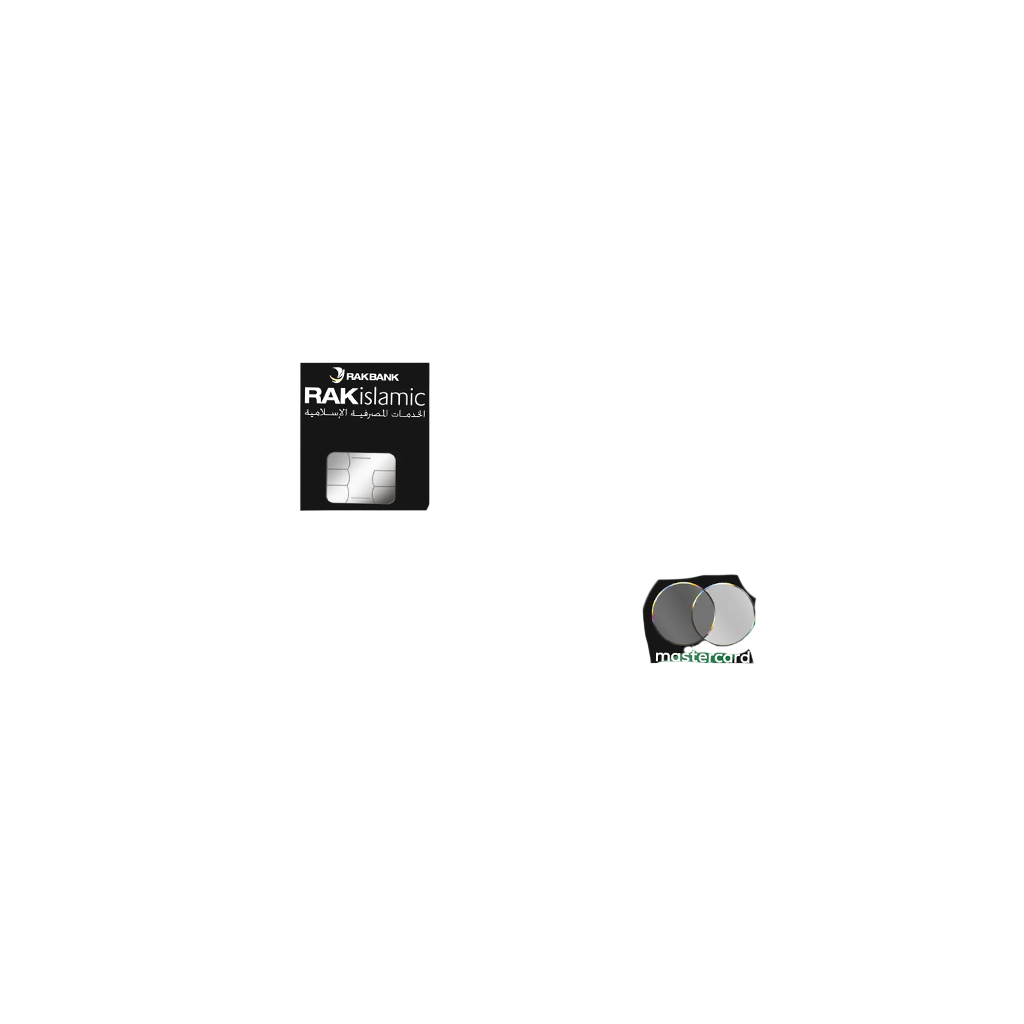
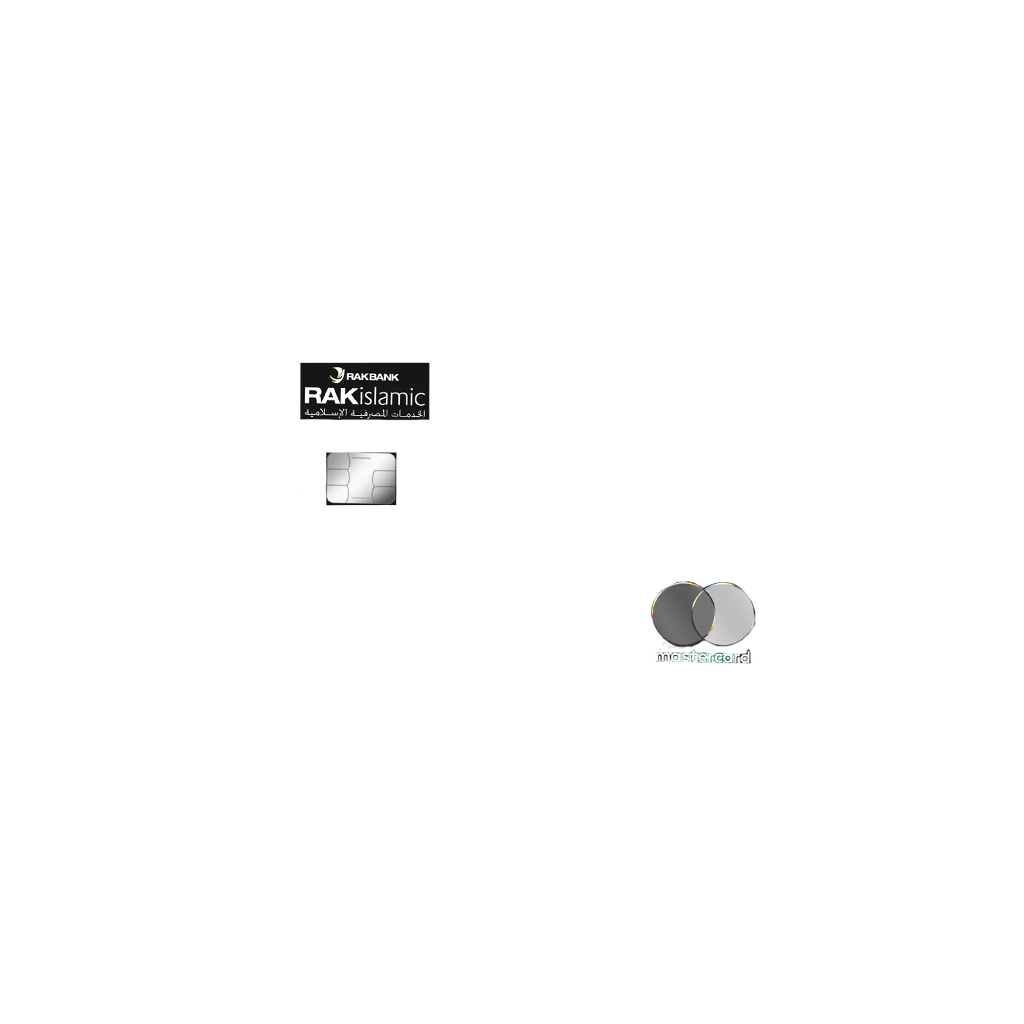
SplashScreen

Changed region(s): [[0.2812, 0.4062, 0.4375, 0.5], [0.625, 0.5625, 0.75, 0.6562]]

diff --git a/index.html b/index.html
@@ -16,6 +16,61 @@
   <style>
     body {
       margin: 0;
+      background-image: url('assets/SplashScreenBG.png');
+      background-size: 100% auto;
+      background-repeat: no-repeat;
+      background-position: top;
+    }
+
+    #splashScreenLogo {
+      transform: translate(-50%, -50%);
+      position: absolute;
+      top: 8%;
+      left: 20%;
+      width: 30%;
+      height: auto;
+      visibility: visible;
+      z-index: 99999;
+    }
+    #splashScreenCard {
+      transform: translate(-50%, -50%);
+      position: absolute;
+      top: 35%;
+      left: 50%;
+      width: 80%;
+      height: auto;
+      visibility: visible;
+      z-index: 99999;
+    }
+    #Language1 {
+      transform: translate(-50%, -50%);
+      position: absolute;
+      top: 75%;
+      left: 75%;
+      width: auto;
+      height: 9%;
+      visibility: visible;
+      z-index: 99999;
+    }
+    #Language2 {
+      transform: translate(-50%, -50%);
+      position: absolute;
+      top: 81%;
+      left: 58%;
+      width: auto;
+      height: 5%;
+      visibility: visible;
+      z-index: 99999;
+    }
+    #Language3 {
+      transform: translate(-50%, -50%);
+      position: absolute;
+      top: 87%;
+      left: 58%;
+      width: auto;
+      height: 5%;
+      visibility: visible;
+      z-index: 99999;
     }
 
     .example-container {
@@ -301,6 +356,13 @@
         <div class="scanline"></div>
       </div>
     </div>
+    
+    <img id="splashScreenLogo" src="./assets/LogoWhite.png" />
+    <img id="splashScreenCard" src="./assets/SplashScreenCard.png" />
+    <img id="Language1" src="./assets/Language1.png" />
+    <img id="Language2" src="./assets/Language2.png" onclick="startAR()"/>
+    <img id="Language3" src="./assets/Language3.png" onclick="startAR()"/>
+
     <img id="logo" src="./assets/RAKIslamic-Logo.png" />
     <img id="cameraNotPermitted" src="./assets/CameraNotPermitted.png" />
             
@@ -318,7 +380,7 @@
     <img id="privacyPolicy" src="./assets/PrivacyPolicy.png" onclick="hideInformationCard()"/>
 
     <a-scene
-      mindar-image="imageTargetSrc: ./assets/CreditCard.mind; filterMinCF:0.001; filterBeta: 1000; showStats: false; uiScanning: #example-scanning-overlay; warmupTolerance: 1; missTolerance: 5"
+      mindar-image="imageTargetSrc: ./assets/CreditCard.mind; autoStart: false; filterMinCF:0.001; filterBeta: 1000; showStats: false; uiScanning: #example-scanning-overlay; warmupTolerance: 1; missTolerance: 5"
       loading-screen="dotsColor: red; backgroundColor: black" gesture-detector color-space="sRGB"
       renderer="colorManagement: true, physicallyCorrectLights, logarithmicDepthBuffer: true" xr-mode-ui="enabled: false"
       device-orientation-permission-ui="enabled: false">
@@ -379,7 +441,7 @@
         <a-plane id="ccImagePlane" src="#ccimage" visible="false" click-detector material="transparent: true; shader: flat;" position="0 0 0.005" height="2.1" width="2.1" rotation="0 0 0"></a-plane>
         <a-plane id="ccImageBlackPlane" src="#ccimageBlack" visible="true" click-detector material="transparent: true; shader: flat;" position="0 0 0.005" height="2.1" width="2.1" rotation="0 0 0"></a-plane>
         <a-plane id="ccimageGradientPlane" src="#ccimageGradient" visible="true" click-detector material="transparent: true; shader: flat;" position="0 0 0.005" height="2.1" width="2.1" rotation="0 0 0"></a-plane>
-        <a-plane id="ccimageNameChipPlane" src="#ccimageNameChip" visible="true" click-detector material="transparent: true; shader: flat;" position="0 0 0.005" height="2.1" width="2.1" rotation="0 0 0"></a-plane>
+        
         <!-- <a-entity id="animPlane" geometry="primitive:plane;width:1.7777;height:1;" position="0.1 0.02 0.1" material="shader:gif;src:#anim;alphaTest:0.5;"></a-entity> -->
         <!-- <a-plane id="ccimageAnimationPlane" src="#ccimageAnimation" visible="true" click-detector material="transparent: true" position="0 0 0" height="2" width="2" rotation="0 0 0"></a-plane> -->
         
@@ -459,14 +521,15 @@
                  position="0.4 -0.95 0.011" height="0.3" width="0.25" rotation="0 0 0" scale="0 0 0"
                  animation="property: scale; from: 0 0 0; to: 1 1 1; loop: false; dur: 200; autoplay: false; startEvents: scaleAnimStart"></a-plane>
 
-
+        <!-- <a-plane id="ccimageNameChipPlane" src="#ccimageNameChip" visible="true" click-detector material="transparent: true; shader: flat;" position="0 0 0.005" height="2.1" width="2.1" rotation="0 0 0"></a-plane> -->
         <a-plane id="a-video1"
-          material="shader: chromakey; src: #video1; color: .0 .0 .0;" 
+          material="shader: chromakey; src: #video1; color: .0 .0 .0; transparent: true;" 
           position="0.2 0 0.01" 
           scale="2.665 1.5 1"
           visible="true"
         ></a-plane>
 
+        <a-plane id="ccimageNameChipPlane" src="#ccimageNameChip" visible="true" click-detector material="transparent: true;" position="0 0 0.015" height="2.1" width="2.1" rotation="0 0 0"></a-plane>
 
       </a-entity>
     </a-scene>
@@ -482,7 +545,12 @@
     })();
 
     const sceneEl = document.querySelector('a-scene');
-    const arSystem = sceneEl.systems["mindar-image-system"];
+    let arSystem;
+    sceneEl.addEventListener('loaded', function () {
+      console.log('Loaded')
+	    arSystem = sceneEl.systems["mindar-image-system"];
+    });
+    // const arSystem = sceneEl.systems["mindar-image-system"];
     
     var video1 = document.getElementById("video1")
     video1.autoplay = false
@@ -491,6 +559,15 @@
     video1.addEventListener('canplay', () => {
       console.log('ready')
     })
+
+    function startAR() {
+      arSystem.start();
+      document.getElementById('Language1').style.visibility = 'hidden'
+      document.getElementById('Language2').style.visibility = 'hidden'
+      document.getElementById('Language3').style.visibility = 'hidden'
+      document.getElementById('splashScreenLogo').style.visibility = 'hidden'
+      document.getElementById('splashScreenCard').style.visibility = 'hidden'
+    }
 
     if ('mediaDevices' in navigator && 'getUserMedia' in navigator.mediaDevices) {
       console.log("Permissions Granted")
@@ -638,12 +715,12 @@
         if (!executed) {
           executed = true;
           document.getElementById('bgImagePlane').emit('bganimstart')
-          // setTimeout(function () {
-          //   video1.play()
-          // }, 2000)
-          setInterval(function () {
+          setTimeout(function () {
             video1.play()
-          }, 4000)
+          }, 2000)
+          // setInterval(function () {
+          //   video1.play()
+          // }, 4000)
         }
       };
     })();
